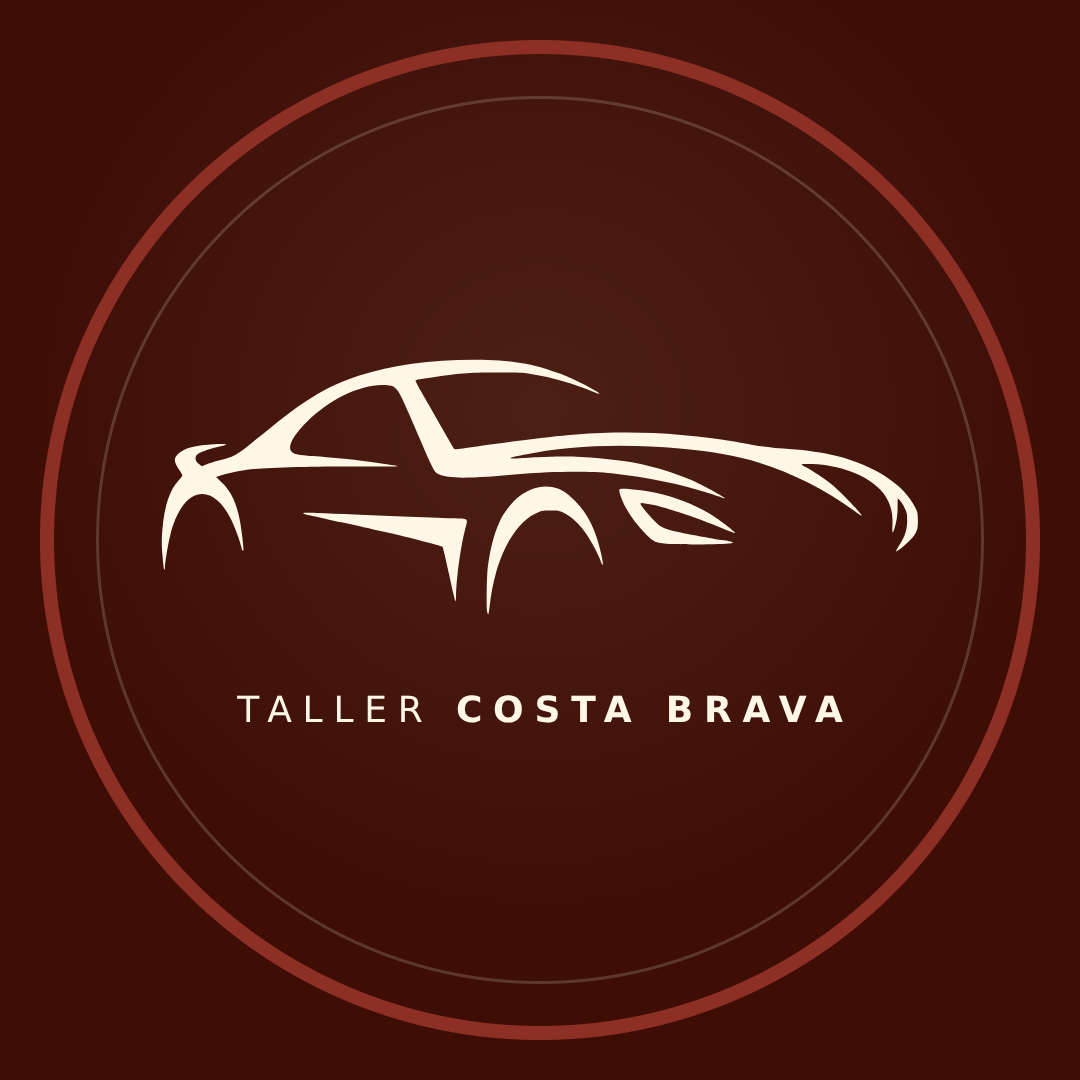
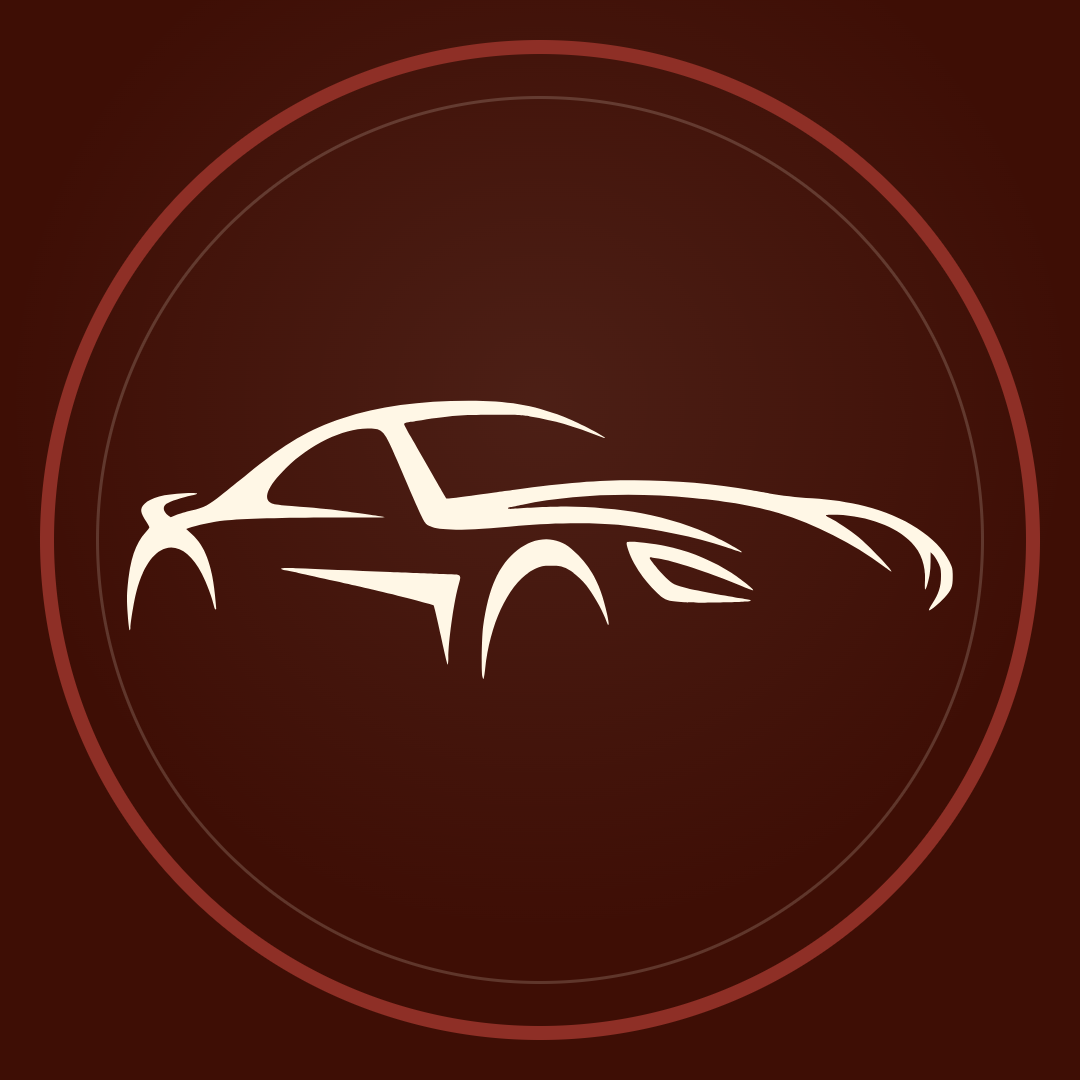
Foto de perfil sin texto y portadas de destacados
La foto de perfil se queda solo con el coche: a 40 px en comentarios el nombre se convertia en una mancha.

Se anaden cuatro portadas de destacado (horario, servicios, opiniones y contacto) a 1080x1920, con la composicion dentro del circulo que recorta Instagram, y un unico script marca/build-redes.mjs que genera todo a partir de img/logo-car.svg.

diff --git a/README.md b/README.md
@@ -51,9 +51,10 @@ TallerCostaBrava/
 │   ├── logo.png             (logotipo antiguo del cliente, ya sin uso)
 │   └── *.webp               (fotos del sitio)
 ├── marca/
-│   ├── foto-perfil-instagram*.png (foto de perfil 1080 × 1080)
+│   ├── foto-perfil-instagram.png  (foto de perfil 1080 × 1080)
+│   ├── destacado-*.png      (portadas de destacados 1080 × 1920)
 │   ├── como-se-ve-en-instagram.png(vista previa con recorte circular)
-│   └── build-avatar.mjs     (script que genera esas imágenes)
+│   └── build-redes.mjs      (script que genera todas esas imágenes)
 └── vercel.json              (configuración de despliegue)
 ```
 
@@ -116,32 +117,41 @@ oscuro `#63211b` (hover), crema `#f7f2e6` (fondos alternos) y negro cálido `#1f
 (secciones oscuras y footer). Están como variables en `:root` al principio de
 `css/styles.css`.
 
-## Foto de perfil de Instagram
+## Redes sociales (Instagram)
 
-En `marca/` están las tres propuestas, ya a **1080 × 1080** (el tamaño que pide Instagram), y
-una vista previa con el **recorte circular real** de la app a 150, 96, 48 y 32 px:
+Todo lo de redes se genera con el **mismo coche** del sitio (`img/logo-car.svg`) y la misma
+paleta, así que perfil, destacados y web van siempre a la una. Son PNG listos para subir:
 
-| Archivo | Qué es |
-|---|---|
-| `marca/foto-perfil-instagram.png` | **Opción recomendada**: coche grande + "TALLER COSTA BRAVA", aro granate |
-| `marca/foto-perfil-instagram-b.png` | La insignia del sitio + nombre |
-| `marca/foto-perfil-instagram-c.png` | Como el cartel de la fachada, con la banda roja de servicios |
-| `marca/como-se-ve-en-instagram.png` | Vista previa de las tres con recorte redondo |
+| Archivo | Formato | Para qué |
+|---|---|---|
+| `marca/foto-perfil-instagram.png` | 1080 × 1080 | Foto de perfil: **el coche solo, sin texto** |
+| `marca/destacado-horario.png` | 1080 × 1920 | Portada del destacado «Horario» (reloj) |
+| `marca/destacado-servicios.png` | 1080 × 1920 | Portada de «Servicios» (llave) |
+| `marca/destacado-opiniones.png` | 1080 × 1920 | Portada de «Opiniones» (estrella) |
+| `marca/destacado-contacto.png` | 1080 × 1920 | Portada de «Contacto» (teléfono) |
+| `marca/como-se-ve-en-instagram.png` | — | Vista previa con el recorte circular real |
 
-Se sube tal cual desde el móvil o el ordenador (Instagram la recorta en círculo y la reduce
-a 320 px). La opción A es la que mejor aguanta ese recorte: el coche sigue leyéndose y el
-nombre no se convierte en una mancha.
+**La foto de perfil va sin texto a propósito.** Instagram la muestra a 40 px en los
+comentarios: el nombre se convierte en una mancha y ensucia el coche. El nombre ya lo dice
+el usuario de la cuenta y la biografía, y en la web lo escribe el HTML.
 
-El script lee el trazado directamente de `img/logo-car.svg`, así que si cambia el coche de la
-marca basta con volver a ejecutarlo (y los iconos de `img/` se regeneran rasterizando
-`img/logo-mark.svg`, que sale del mismo dibujo):
+**Los destacados sí llevan una palabra**, porque ahí el recorte es de ~140 px y se lee. La
+composición está pensada para el recorte circular: todo el contenido vive dentro del círculo
+central de la imagen de 1080 × 1920 (Instagram recorta el cuadrado central), con el aro
+granate a la vista.
+
+Para regenerarlo todo después de tocar el logo:
 
 ```bash
 npm i puppeteer-core @sparticuz/chromium
-node marca/build-avatar.mjs
+node marca/build-redes.mjs
 # o, con un Chrome ya instalado:
-CHROME_PATH=/usr/bin/google-chrome node marca/build-avatar.mjs
+CHROME_PATH=/usr/bin/google-chrome node marca/build-redes.mjs
 ```
+
+El script lee el trazado de `img/logo-car.svg`, así que cambiando el coche del sitio se
+actualizan perfil y destacados a la vez. Para añadir otro destacado basta con una línea más
+en la lista `DESTACADOS` (icono + texto).
 
 ## Accesibilidad y buenas prácticas
 
